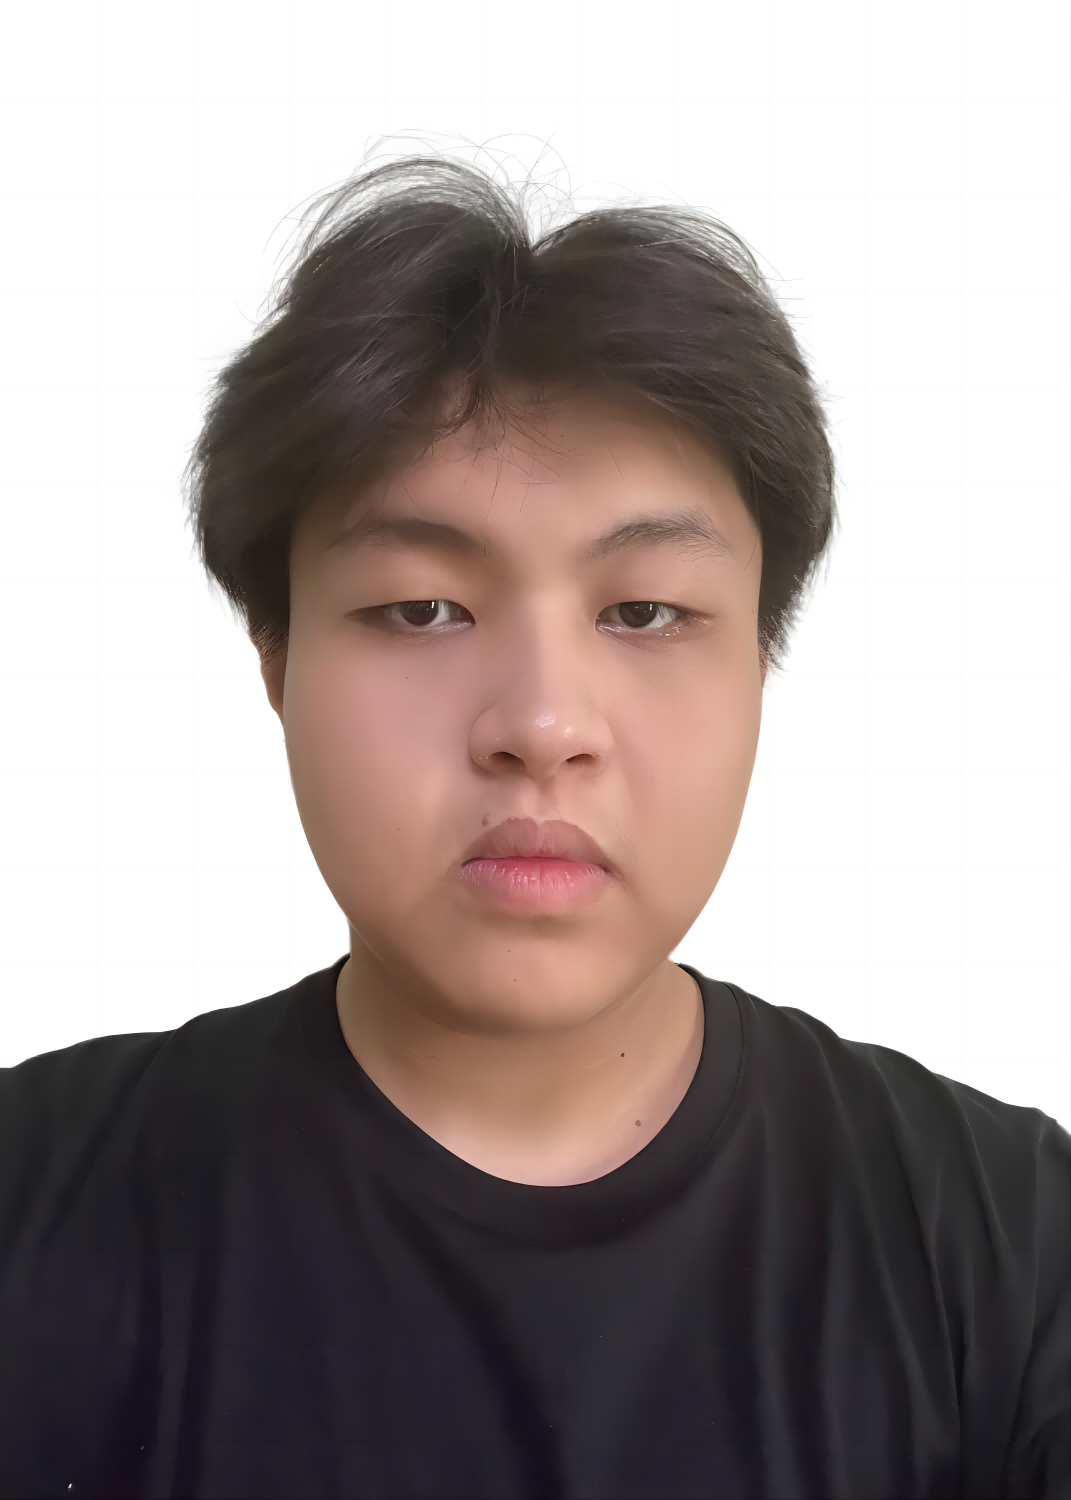
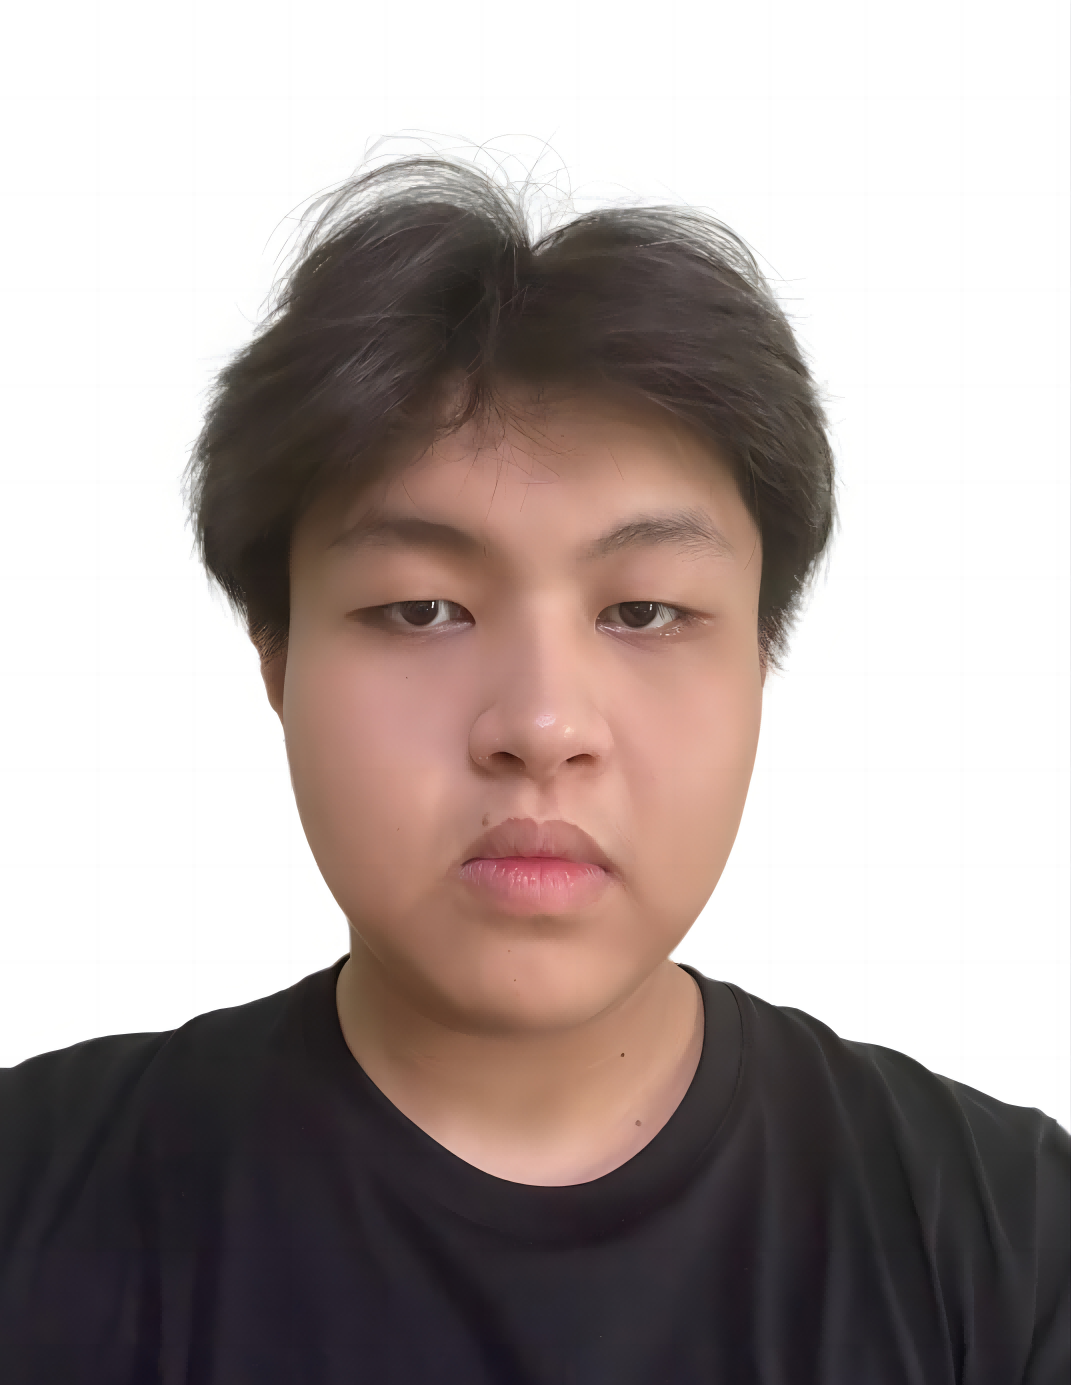
update

diff --git a/content/authors/Nanli Mou/_index.md b/content/authors/Nanli Mou/_index.md
@@ -1,7 +1,7 @@
 ---
 title: Nanli Mou 牟南历
 role: 'Postdoctoral Scholar mounanli@cuhk.edu.cn'
-avatar_filename: avatar-NanliMou.jpg
+avatar_filename: avatar-NanliMou-resized.jpg
 organizations:
   - name: The Chinese University of Hong Kong, Shenzhen
     url: ""
